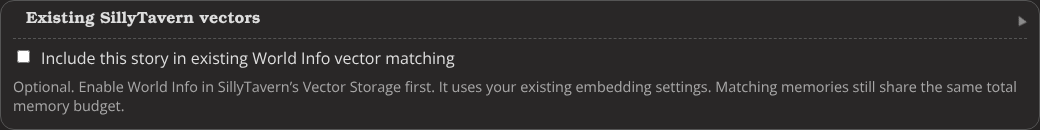
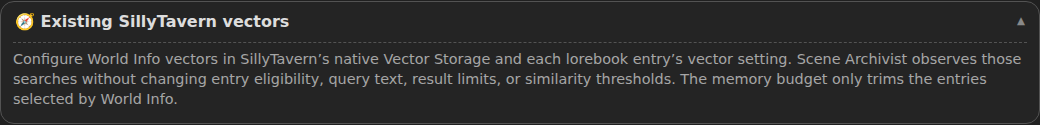
Refresh screenshots and documentation for 1.0.4

diff --git a/README.md b/README.md
@@ -28,7 +28,7 @@ If your characters can hide a body but cannot remember where they had dinner, we
 
 ### About the screenshots and videos
 
-This guide includes **36 screenshots and three animated walkthroughs**, with MP4 versions linked beside each animation. The captures render the extension's actual interface in a demonstration host using an invented story and scripted model replies. They show how the controls work; they are not recordings of live API calls or Mira's private chats. The overview captures include version 1.0.0; the bulk review and settings captures show the 1.0.1 update. Your SillyTavern theme, fonts, and popup styling can look different.
+This guide includes **36 screenshots and three animated walkthroughs**, with MP4 versions linked beside each animation. The captures render the extension's actual interface in a demonstration host using an invented story and scripted model replies. They show how the controls work; they are not recordings of live API calls or Mira's private chats. The changed search, vector, settings, job, and review panels were recaptured from **1.0.4**. Some overview screenshots and the animated walkthroughs retain earlier versions and button labels. Your SillyTavern theme, fonts, and popup styling can look different.
 
 ## Install and make your first archive
 
@@ -57,7 +57,7 @@ Each record has its proposed text and original text. **Review later** keeps the 
 
 ### Control request size and review timing
 
-![Version 1.0.1 settings for character request size and combined or per-step review](docs/media/36-bulk-settings.png)
+![Version 1.0.4 settings for character request size and combined or per-step review](docs/media/36-bulk-settings.png)
 
 In **Settings → Story memory settings**:
 
@@ -382,7 +382,7 @@ Find saved diaries using the **diary** type filter. Their injection exclusion is
 <details>
 <summary>See the return-recap controls</summary>
 
-![Previously on recap control, pictured beside the older duplicate Ask box removed in 1.0.4](docs/media/20-return-recap.png)
+![Previously on return-recap control in the Search tab in version 1.0.4](docs/media/20-return-recap.png)
 
 Use **Previously on...** for a short, dated return recap from recent records. **Settings → Story memory settings** can offer one after you have been away for a configured number of hours. This helps you resume a story; it does not replace the archive with a condensed record.
 
@@ -404,7 +404,7 @@ Enable **Let the model pick keyed entries before each reply** to make an additio
 <details>
 <summary>See the budget decision and the model-context view</summary>
 
-![Memory budget view listing selected records, costs, reasons, and omitted records](docs/media/22-loading-budget.png)
+![Version 1.0.4 memory budget showing native keyword and vector activation separately, vector search status, and omitted records](docs/media/22-loading-budget.png)
 
 **Memory budget and loading reasons** shows the entries selected by SillyTavern and why others were omitted. Native World Info finishes its scan first, including keyword rules, vector activations, recursion, probability, inclusion groups, cooldowns and delays. Scene Archivist then trims the activated story entries to one total content-token cap. A covering recap and its sources do not spend that cap twice. Pins change priority among activated entries; they do not activate unmatched records.
 
@@ -415,6 +415,8 @@ The panel also reports native **Vector search** status, including the provider, 
 Normal-reply evidence survives quiet helpers and previews. An observed vector result is distinct from a memory actually retained after native World Info filters and the archive cap. World Info activation confirms that processing stage; use SillyTavern prompt inspection for the exact final prompt. On older hosts without `WORLDINFO_SCAN_DONE`, the report explicitly states that the archive cap is unavailable and native World Info limits apply.
 
 **What the model saw** shows records activated in the last observed World Info scan, their token counts, and recorded selection reasons. Reasons can overlap. Check it alongside the budget view when a memory seems to be missing. A pin increases priority; it does not override the cap. Use SillyTavern's prompt inspection to verify the exact final prompt.
+
+![Version 1.0.4 model-context view with recorded keyword, vector, and Always on activation reasons](docs/media/23-model-context.png)
 
 </details>
 
@@ -493,11 +495,11 @@ AI summaries, memory generation, condensation, diaries, continuity checks, and e
 ### Existing SillyTavern vectors
 
 <details>
-<summary>See optional semantic matching</summary>
+<summary>See native World Info vector guidance</summary>
 
-![Optional native World Info vector-matching setting](docs/media/29-native-vectors.png)
+![Version 1.0.4 guidance for configuring vectors in native Vector Storage and individual lorebook entries](docs/media/29-native-vectors.png)
 
-Enable World Info in SillyTavern's **Vector Storage**, then use each lorebook entry's vector setting, or native **Enabled for all** if you deliberately want that behavior. Scene Archivist observes the native integration and never marks every story entry as vector eligible. Native keyword activation continues to follow the entry's primary and secondary keywords and other World Info rules. Activated story entries share the archive memory budget. The existing screenshot shows the retired 1.0.2 switch; in 1.0.3 that area explains the native settings instead.
+Enable World Info in SillyTavern's **Vector Storage**, then use each lorebook entry's vector setting, or native **Enabled for all** if you deliberately want that behavior. Scene Archivist observes the native integration and never marks every story entry as vector eligible. Native keyword activation continues to follow the entry's primary and secondary keywords and other World Info rules. Activated story entries share the archive memory budget.
 
 </details>
 
@@ -520,7 +522,7 @@ Back up your skeletons. The closet is not version control.
 
 ### Paused jobs, saved results, and Undo
 
-![Paused archive job with Resume and Pause; the pictured Cancel button is labeled Discard unfinished job in 1.0.4](docs/media/30-job-recovery.png)
+![Version 1.0.4 paused archive job with Resume / review, Pause after this request, and Discard unfinished job](docs/media/30-job-recovery.png)
 
 Bulk jobs retain their generated results and proposed book changes before the combined review. The progress panel distinguishes prepared steps from approved changes being saved. **Review later** closes the review and keeps the prepared result for **Resume / review**. **Pause after this request** stops between requests. **Discard unfinished job** ends the job and makes its unapproved results unavailable; records already written to lorebooks are kept. A failed job also offers **Retry / review saved result**, so a usable prepared result can be reviewed again without another model call.
 
